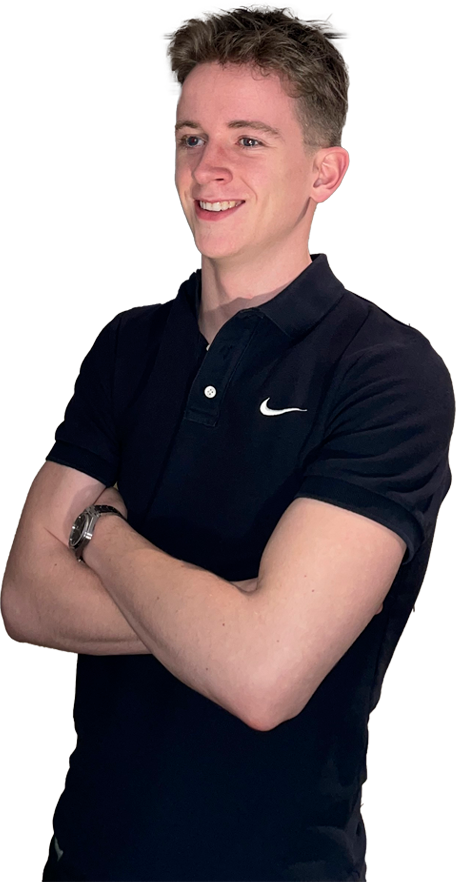
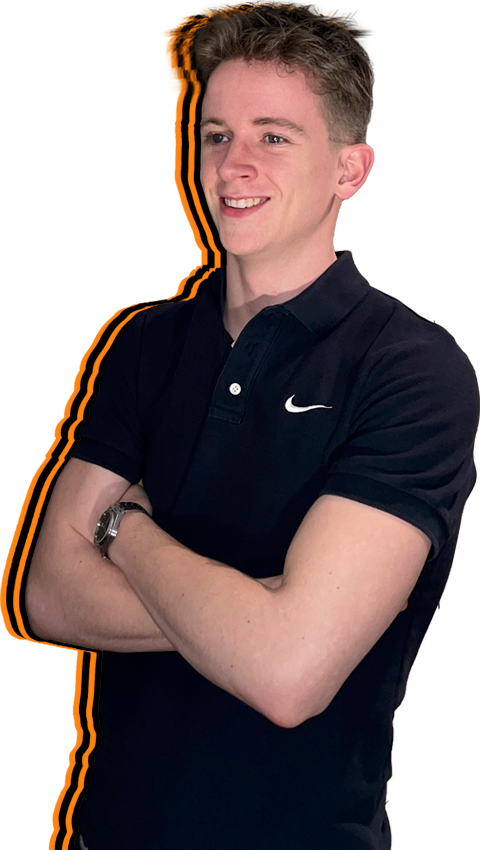
Verder gewerkt aan de hoofdpagina.

diff --git a/style.css b/style.css
@@ -66,3 +66,35 @@ nav ul li a:hover::after
 {
     text-shadow: 0px 0px 20px rgba(0,0,0,0.79);
 }
+.mezelf
+{
+    position: absolute;
+    bottom: 0px;
+    left: 200px;
+}
+.parallelogram 
+{
+    position: absolute;
+    left: 1200px;
+    top: 450px;
+    width: 250px;
+    height: 70px;
+    display: inline-block;
+    padding: 10px 20px;
+    background-color: #ff6500;
+    transform: skewX(-20deg);
+    color: white;
+    text-align: center;
+    text-decoration: none;
+    text-transform: uppercase;
+    -webkit-box-shadow: 0px 0px 0px 8px #000000, 0px 0px 0px 16px #4B4C4B, 0px 0px 0px 24px #828482, 0px 0px 0px 31px #B2B5B2, 0px 0px 0px 39px #DADDDA, 0px 0px 14px 2px rgba(255,101,0,0); 
+    box-shadow: 0px 0px 0px 8px #7d4403, 0px 0px 0px 16px #b16b02, 0px 0px 0px 24px #d78603, 0px 0px 0px 31px #e9b004, 0px 0px 0px 39px #ffae00, 0px 0px 14px 2px rgba(255,101,0,0);
+    transition: box-shadow 0.2s ease-in-out;
+    cursor: pointer;
+  }
+  
+  .parallelogram:active 
+  {
+    box-shadow: none;
+    transform: skewX(-20deg) translateY(3px);
+  }

diff --git a/index.html b/index.html
@@ -11,6 +11,8 @@
     <title>Hoofdpagina</title>
 </head>
 <body>
+    <div>
+    </div>
     <div class="hero">
         <nav>
             <h2 class="logo">Brent van Malsen</h2>
@@ -23,6 +25,8 @@
                 <li class="leerdoelen"><a href="#">Professional identity</a></li>
             </ul>
         </nav>
+        <img src="images/mezelf.png" class="mezelf" height="575">
+        <button class="parallelogram">Over mij</button>
     </div>
 </body>
 </html>
